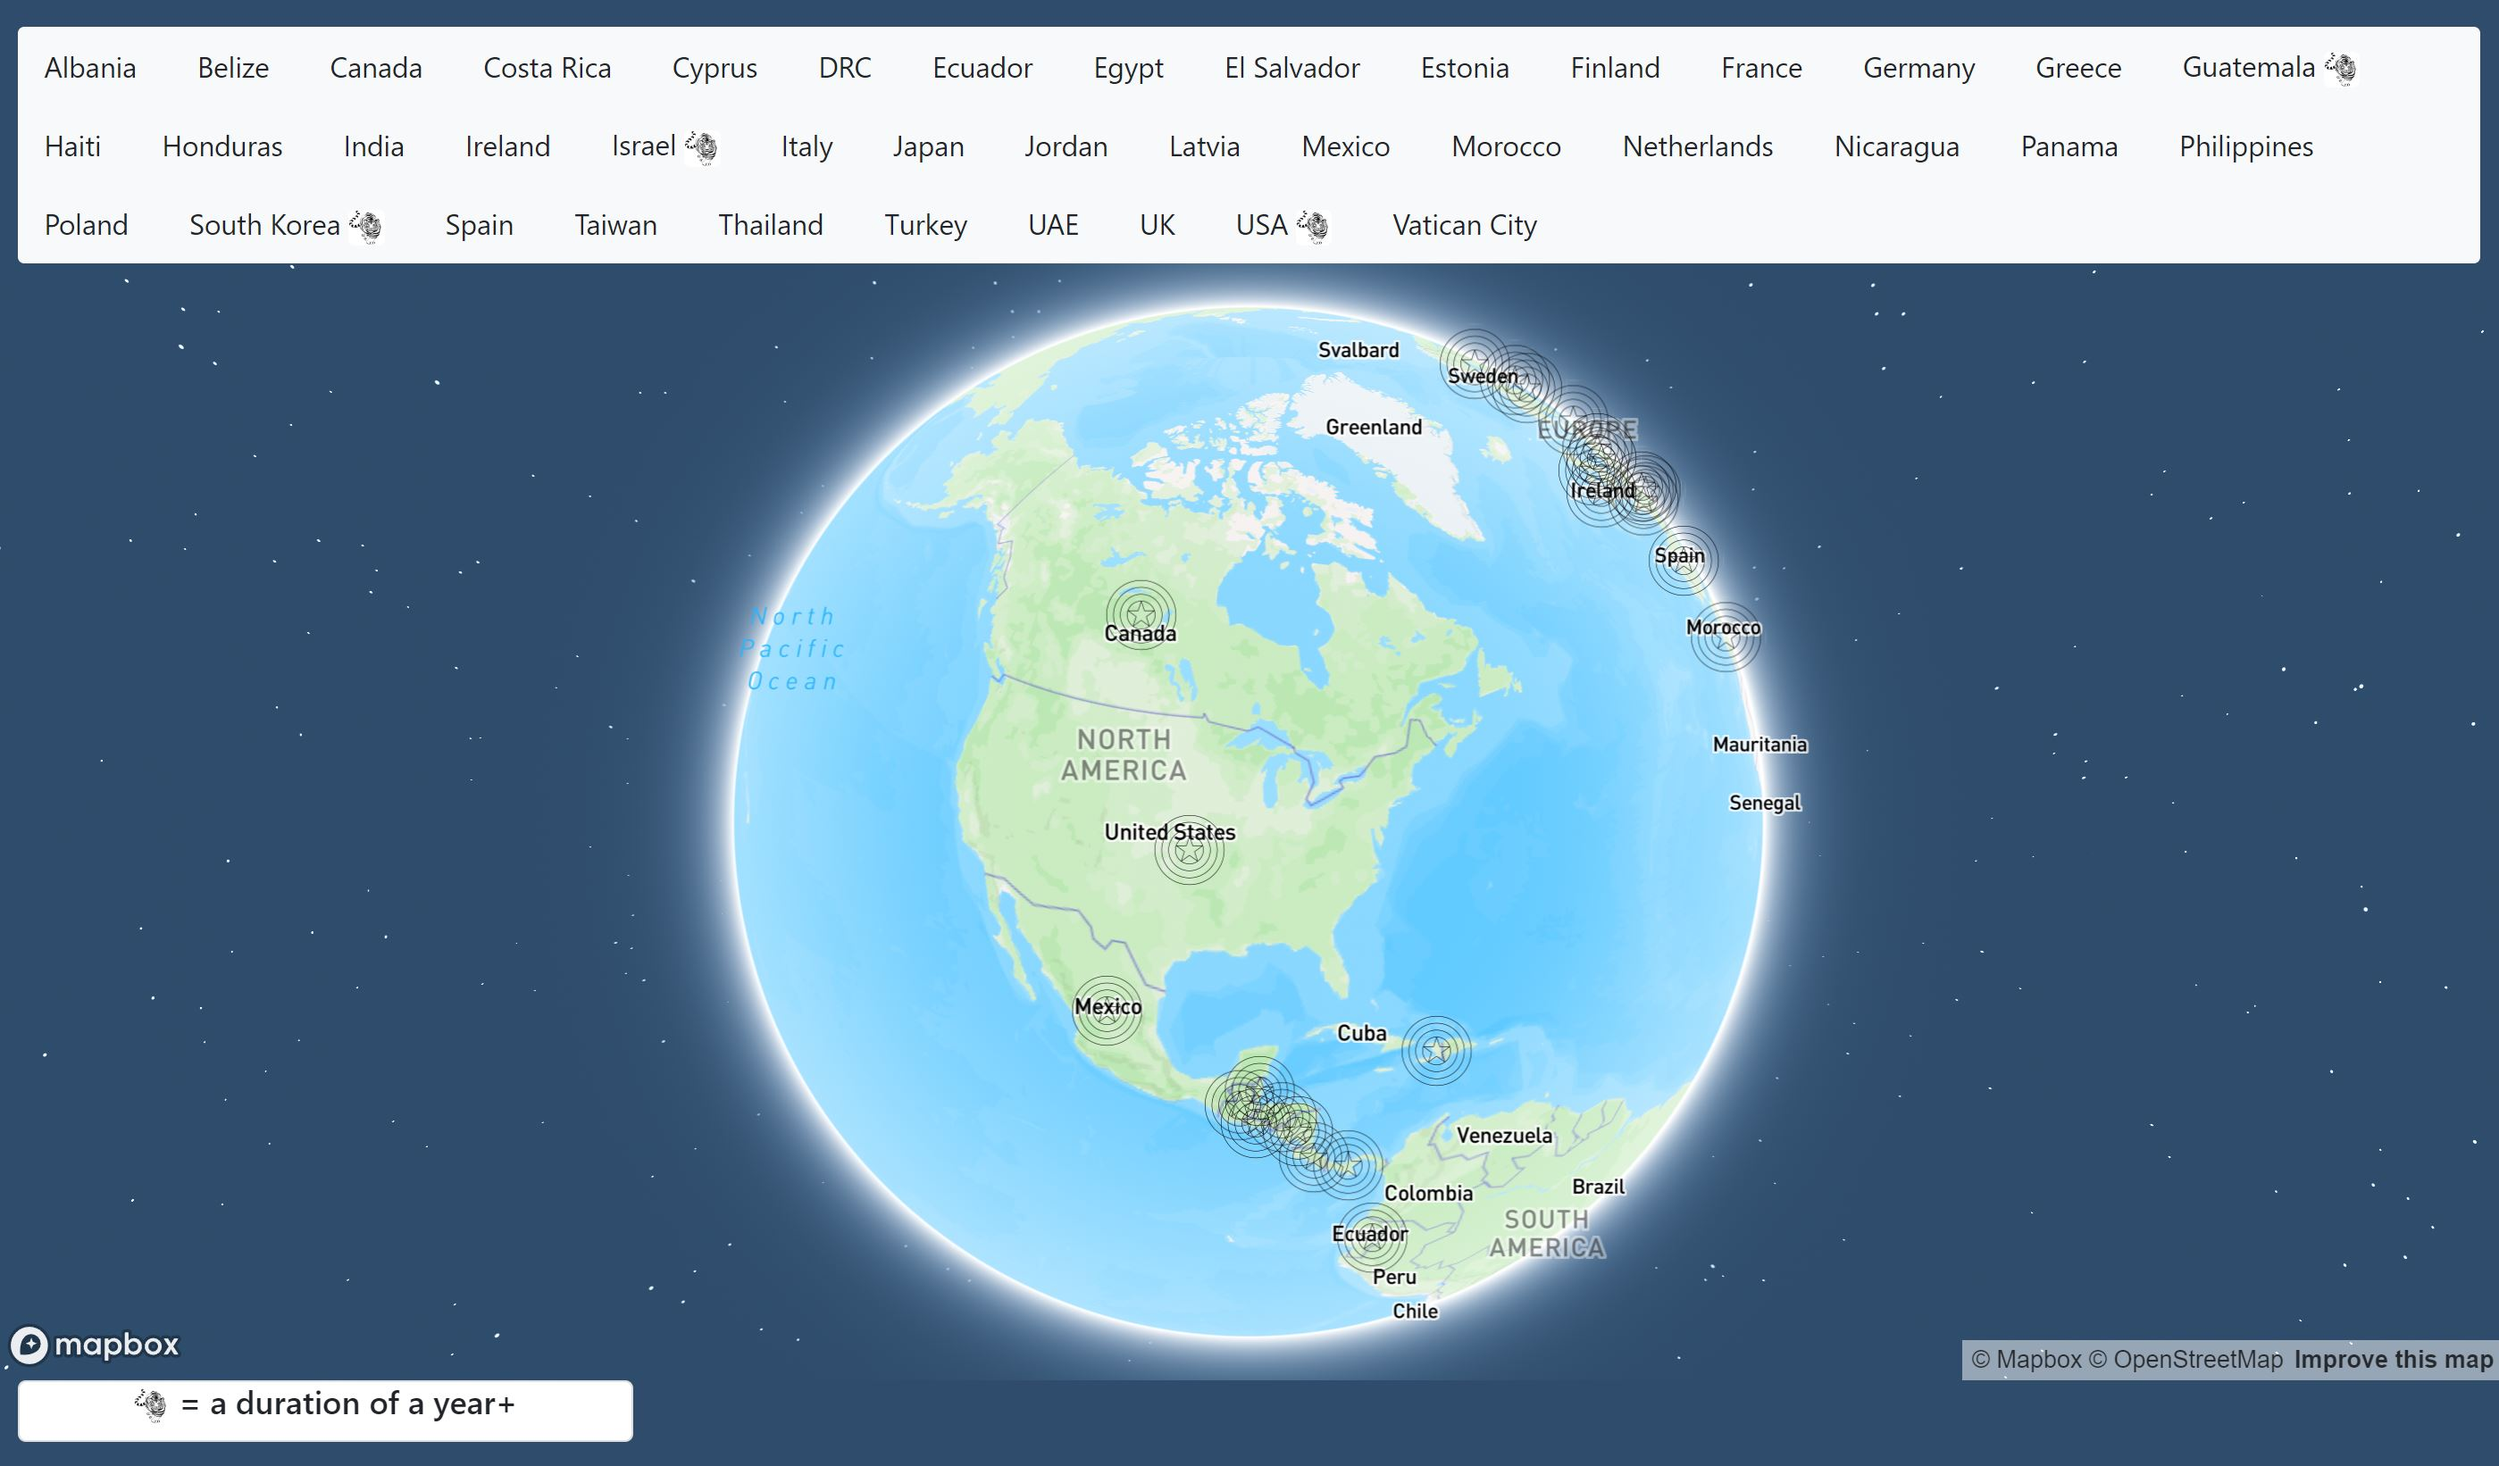
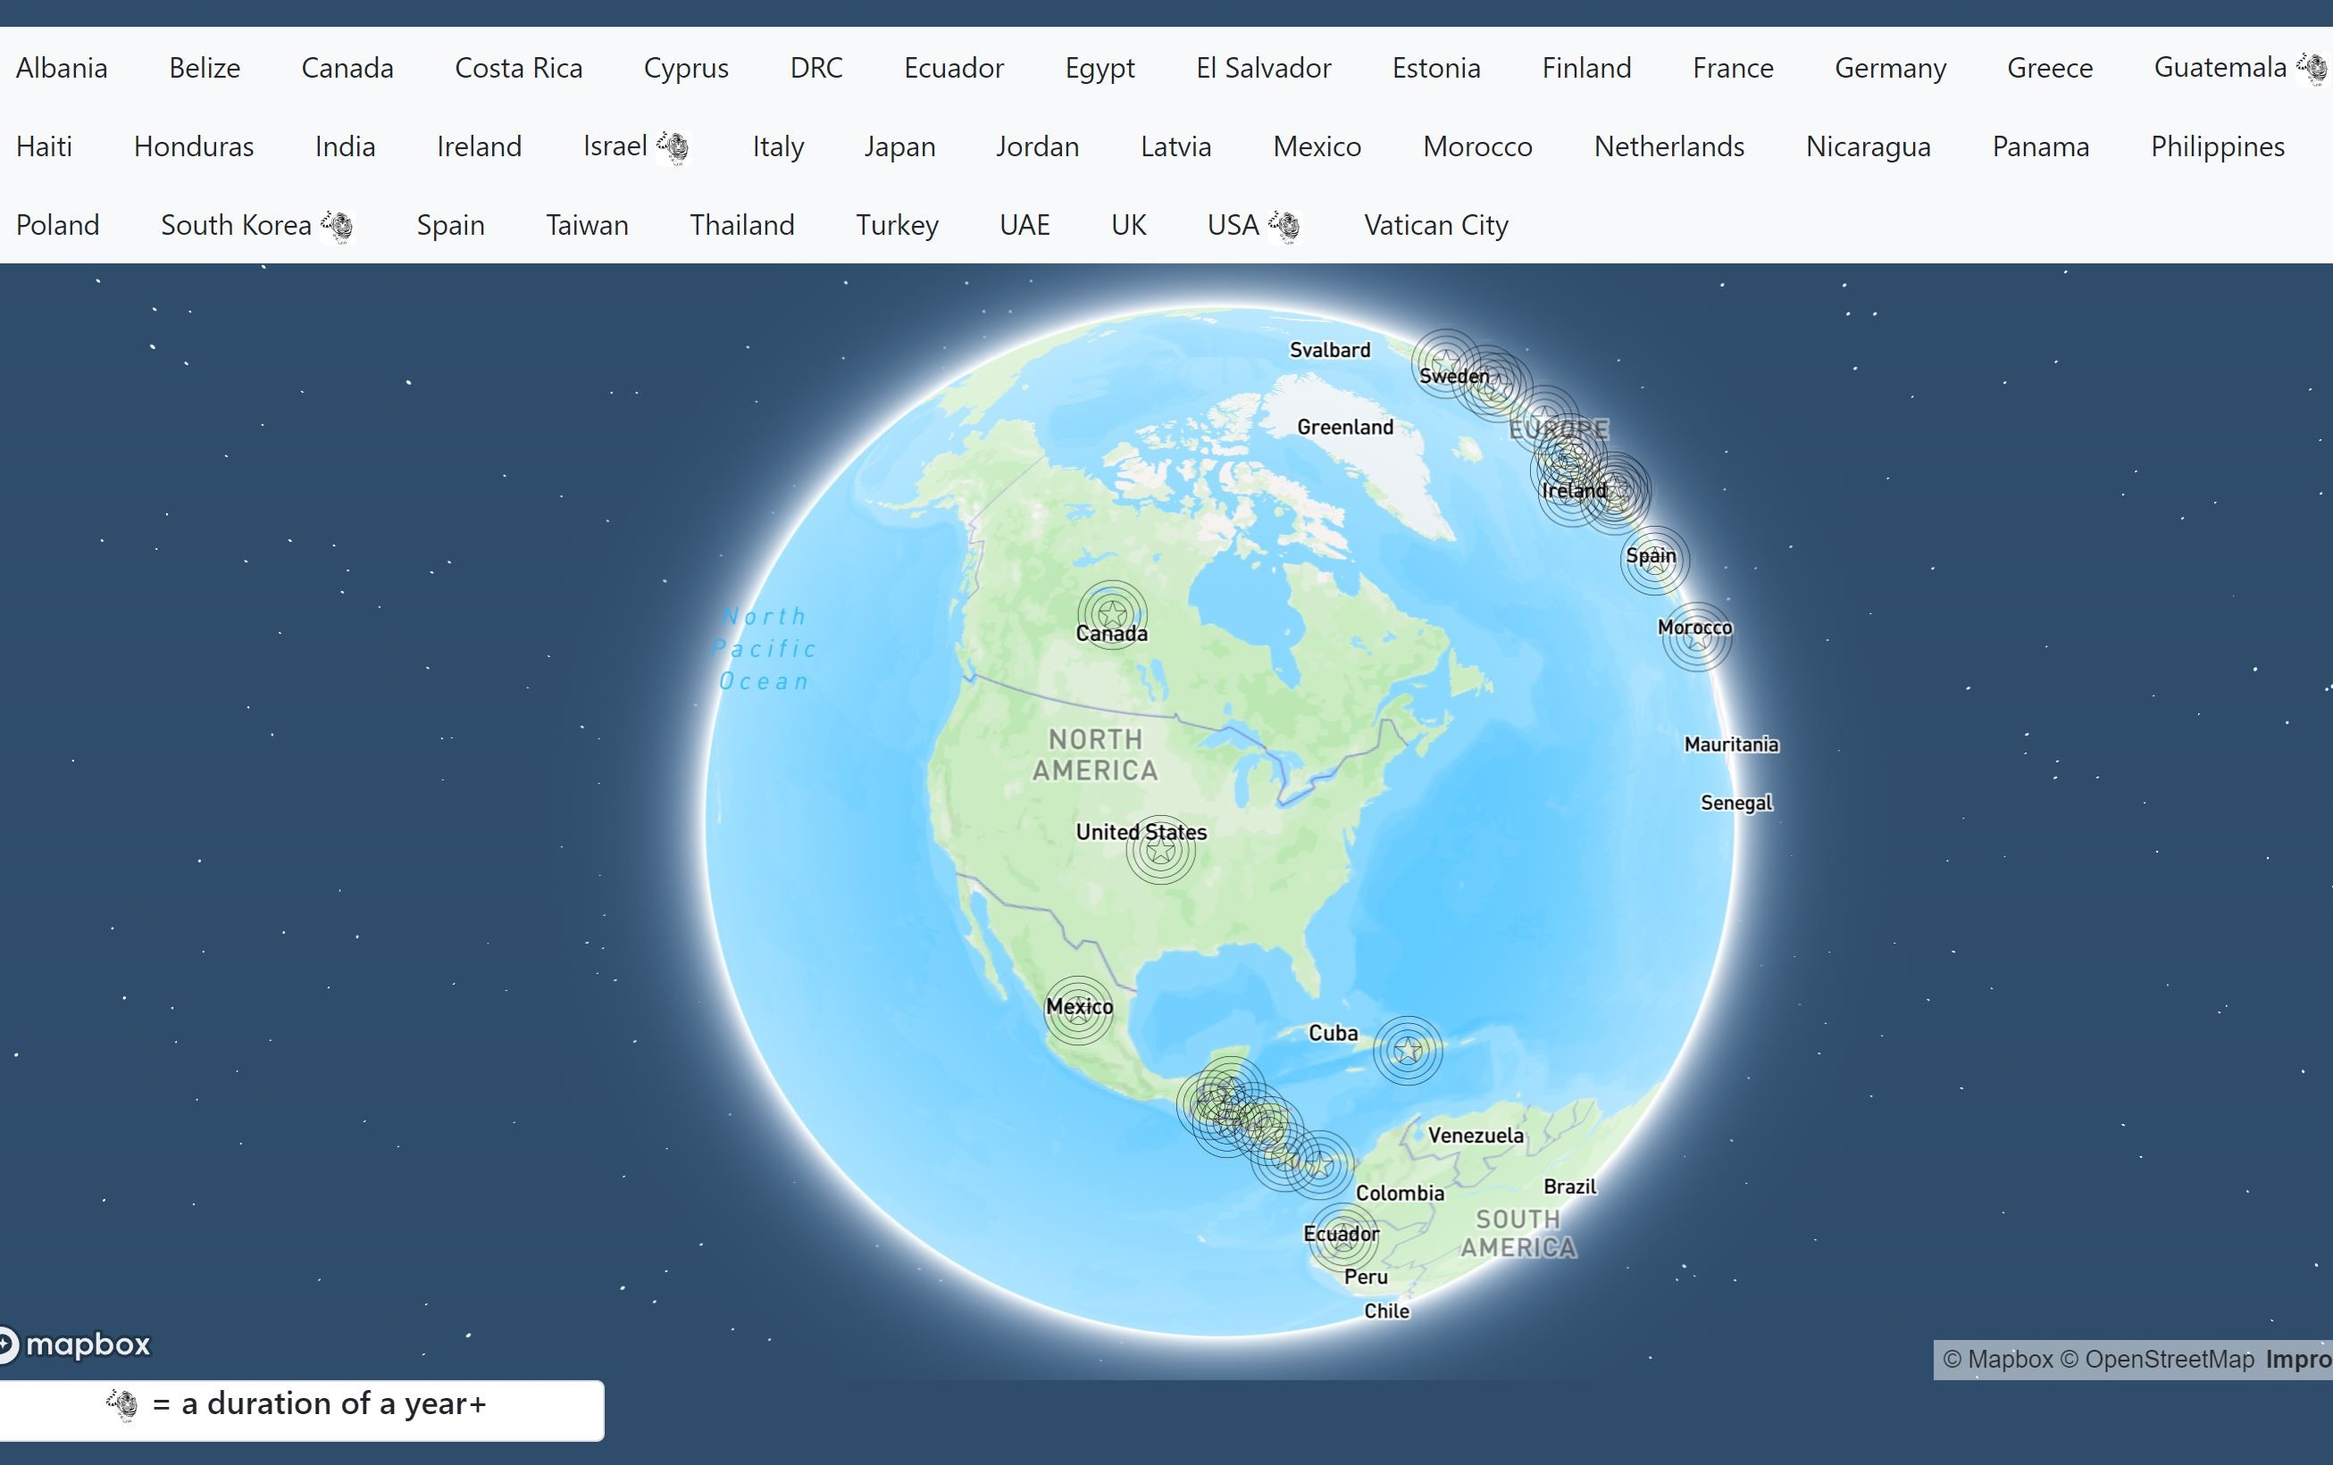
completed portfolio cards

diff --git a/portfolio.html b/portfolio.html
@@ -42,11 +42,13 @@
       <div class="m-3"></div>
 
       <div class = "row justify-content-center">
-      <div class="card m-3" style="width: 18rem;">
+      <div class="card m-4 bg-light" style="width: 30rem;">
+        <div class="card-header border">
         <img src="./images/KomodoCapture.jpg" class="card-img-top rounded-3" alt="...">
+        </div>
         <div class="card-body">
-          <h4 class="card-title">Komodo, Inc.</h4>
-          <p class="card-text">Veterinary clinic app where users schedule appointments</p>
+          <h3 class="card-title">Komodo, Inc.</h3>
+          <p class="card-text border-bottom">Veterinary clinic app where users schedule appointments</p>
           <br>
           <h6 class="card-title">Tech Stack:</h6>
           <p class="card-text">Java | Spring Boot | Spring MVC | Maven | JWT | Spring Security | REST | Postman | JSON | CRUD | MySQL | SQL | DAO | JPA Repository | Hibernate ORM | JavaScript | ReactJS | HTML | CSS | Mapbox GL JS | Git | GitHub</p>
@@ -57,46 +59,53 @@
           <a class="text-black" href="https://github.com/bethel-school-of-technology/team-komodo-backend">Back-End GitHub Repo</a>
         </div>
       </div>
-      <div class="card m-3" style="width: 18rem;">
-        <img src="./images/IMG_2657.JPG" class="card-img-top rounded-3" alt="...">
+      <div class="card m-4 bg-light" style="width: 30rem;">
+        <div class="card-header border">
+        <img src="./images/MovieTrackerCapture.jpg" class="card-img-top rounded-3" alt="...">
+        </div>
         <div class="card-body">
-          <h4 class="card-title">MovieTracker</h4>
-          <p class="card-text">Some quick example text to build on the card title and make up the bulk of the card's content.</p>
-          <a href="#" class="btn btn-primary">Go somewhere</a>
+          <h3 class="card-title">MovieTracker</h3>
+          <p class="card-text border-bottom">Keep track of upcoming movie releases</p>
+          <br>
+          <h6 class="card-title">Tech Stack:</h6>
+          <p class="card-text">Java | Spring Boot | Spring MVC | Maven | REST | CRUD | MySQL | SQL | DAO | JPA Repository | Hibernate ORM | Thymeleaf | Spring Boot Devtools | HTML | CSS | Bootstrap | Git | GitHub</p>
+          <br>
+          <h6 class="card-title">Want to borrow the code?</h6>
+          <a class="text-black" href="https://github.com/HansGehman/MovieTracker">GitHub Repo</a>
         </div>
       </div>
-      <div class="card m-3" style="width: 18rem;">
+      <div class="card m-4 bg-light" style="width: 30rem;">
+        <div class="card-header border">
         <img src="./images/TravelMapCapture.JPG" class="card-img-top rounded-3" alt="...">
+        </div>
         <div class="card-body">
-          <h4 class="card-title">TravelMap</h4>
-          <p class="card-text">Display explored locations via interactive world map</p>
+          <h3 class="card-title">TravelMap</h3>
+          <p class="card-text border-bottom">Display explored world locations via interactive map</p>
           <br>
           <h6 class="card-title">Tech Stack:</h6>
           <p class="card-text">JavaScript | HTML | CSS | Bootstrap | Mapbox GL JS | GeoJSON | Git | GitHub</p>
           <br>
-          <p>
           <h6 class="card-title">Want to see it in action?</h6>
           <a class="text-black" href="https://hansgehman.github.io/worldexploration.html">World Exploration</a>
-          </p>
-          <br>
+          <br><br><br>
           <h6 class="card-title">Want to borrow the code?</h6>
           <a class="text-black" href="https://github.com/HansGehman/TravelMap">GitHub Repo</a>
         </div>
       </div>
-      <div class="card m-3" style="width: 18rem;">
+      <div class="card m-4 bg-light" style="width: 30rem;">
+        <div class="card-header border">
         <img src="./images/PhotoCarouselCapture.JPG" class="card-img-top rounded-3" alt="...">
+        </div>
         <div class="card-body">
-          <h4 class="card-title">PhotoCarousel</h4>
-          <p class="card-text">Exhibit hobby photos via carousel</p>
+          <h3 class="card-title">PhotoCarousel</h3>
+          <p class="card-text border-bottom">Exhibit hobby photos on revolving carousels</p>
           <br>
           <h6 class="card-title">Tech Stack:</h6>
           <p class="card-text">JavaScript | HTML | CSS | Bootstrap | Git | GitHub</p>
           <br>
-          <p>
           <h6 class="card-title">Want to see it in action?</h6>
           <a class="text-black" href="https://hansgehman.github.io/legocreations.html">Lego Creations</a>
-          </p>
-          <br>
+          <br><br><br>
           <h6 class="card-title">Want to borrow the code?</h6>
           <a class="text-black" href="https://github.com/HansGehman/PhotoCarousel">GitHub Repo</a>
         </div>

diff --git a/worldexploration.html b/worldexploration.html
@@ -990,9 +990,9 @@
       </script>
 
     <div class="card border-0 rounded-0 rounded-bottom" style="width: 90vw; background-color: #2F4C6C;">
-      <div class="col-sm-3">
+      <div class="col-sm-4">
         <div class="card text-center" >
-          <h6 class=""><img src="./images/Tiger.jpg" width="18" class="rounded-1" /> = a duration of a year+</h6>    
+          <h6>A <img src="./images/Tiger.jpg" width="18" class="rounded-1" /> means I lived here for at least a year</h6>    
         </div>
       </div>
       <div class="m-2"></div>
